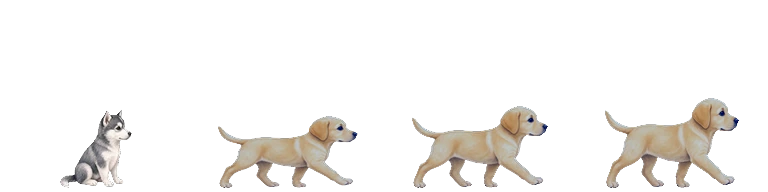
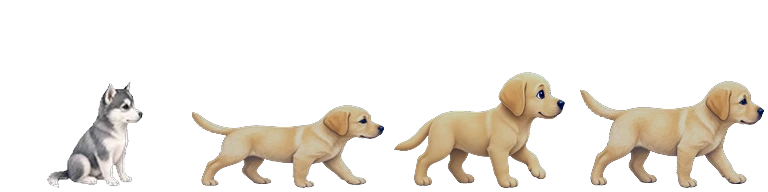
feat: 8-frame natural quadruped walk cycle
Replace 6-frame walks with 8-frame diagonal gait sheets (contact→down→pass→up ×2).
Set walkFrames=8, FRAME_FPS ~10–12, keep sitdownFrames=4 and pendingDir flip.

Changed region(s): [[0.5, 0.375, 1.0, 1.0], [0.25, 0.5312, 0.5, 1.0], [0.0625, 0.4375, 0.1875, 0.9688]]

diff --git a/js/content.js b/js/content.js
@@ -179,13 +179,13 @@ function defaultPackUnlocks() {
 }
 
 const BREEDS = {
-  lab: { id: 'lab', name: 'Лабрадор', desc: 'Сбалансированный старт', src: 'assets/dog-click.webp', walkSrc: 'assets/dog-lab-walk.webp', sitSrc: 'assets/dog-lab-sit.webp', sitdownSrc: 'assets/dog-lab-sitdown.webp', standupSrc: 'assets/dog-lab-standup.webp', sitdownFrames: 4, walkFrames: 6, frameW: 192, frameH: 192, unlockCost: 0, bonuses: { clickMult: 1, idleMult: 1, comboWindowBonus: 0 }, startUnlocked: true },
-  corgi: { id: 'corgi', name: 'Корги', desc: '+5% к почесушкам', src: 'assets/dog-corgi.webp', walkSrc: 'assets/dog-corgi-walk.webp', sitSrc: 'assets/dog-corgi-sit.webp', sitdownSrc: 'assets/dog-corgi-sitdown.webp', standupSrc: 'assets/dog-corgi-standup.webp', sitdownFrames: 4, walkFrames: 6, frameW: 192, frameH: 192, unlockCost: 35000, reqLifetime: 1e5, bonuses: { clickMult: 1.05, idleMult: 1, comboWindowBonus: 0 }, startUnlocked: false },
-  husky: { id: 'husky', name: 'Хаски', desc: '+5% к автодоходу', src: 'assets/dog-husky.webp', walkSrc: 'assets/dog-husky-walk.webp', sitSrc: 'assets/dog-husky-sit.webp', sitdownSrc: 'assets/dog-husky-sitdown.webp', standupSrc: 'assets/dog-husky-standup.webp', sitdownFrames: 4, walkFrames: 6, frameW: 192, frameH: 192, unlockCost: 140000, reqLifetime: 5e5, bonuses: { clickMult: 1, idleMult: 1.05, comboWindowBonus: 0 }, startUnlocked: false },
-  dachshund: { id: 'dachshund', name: 'Такса', desc: '+200 мс к окну комбо', src: 'assets/dog-dachshund.webp', walkSrc: 'assets/dog-dachshund-walk.webp', sitSrc: 'assets/dog-dachshund-sit.webp', sitdownSrc: 'assets/dog-dachshund-sitdown.webp', standupSrc: 'assets/dog-dachshund-standup.webp', sitdownFrames: 4, walkFrames: 6, frameW: 192, frameH: 192, unlockCost: 450000, reqLifetime: 2.5e6, reqMedals: 1, bonuses: { clickMult: 1, idleMult: 1, comboWindowBonus: 200 }, startUnlocked: false },
-  shiba: { id: 'shiba', name: 'Сиба', desc: '+4% к почесушкам и +2% к автодоходу', src: 'assets/dog-shiba.webp', walkSrc: 'assets/dog-shiba-walk.webp', sitSrc: 'assets/dog-shiba-sit.webp', sitdownSrc: 'assets/dog-shiba-sitdown.webp', standupSrc: 'assets/dog-shiba-standup.webp', sitdownFrames: 4, walkFrames: 6, frameW: 192, frameH: 192, unlockCost: 1.2e6, reqLifetime: 6e6, reqMedals: 2, bonuses: { clickMult: 1.04, idleMult: 1.02, comboWindowBonus: 0 }, startUnlocked: false },
-  poodle: { id: 'poodle', name: 'Пудель', desc: '+8% к автодоходу', src: 'assets/dog-poodle.webp', walkSrc: 'assets/dog-poodle-walk.webp', sitSrc: 'assets/dog-poodle-sit.webp', sitdownSrc: 'assets/dog-poodle-sitdown.webp', standupSrc: 'assets/dog-poodle-standup.webp', sitdownFrames: 4, walkFrames: 6, frameW: 192, frameH: 192, unlockCost: 2.8e6, reqLifetime: 2.5e7, reqMedals: 3, bonuses: { clickMult: 1, idleMult: 1.08, comboWindowBonus: 0 }, startUnlocked: false },
-  beagle: { id: 'beagle', name: 'Бигль', desc: '+6% к почесушкам · +80 мс комбо', src: 'assets/dog-beagle.webp', walkSrc: 'assets/dog-beagle-walk.webp', sitSrc: 'assets/dog-beagle-sit.webp', sitdownSrc: 'assets/dog-beagle-sitdown.webp', standupSrc: 'assets/dog-beagle-standup.webp', sitdownFrames: 4, walkFrames: 6, frameW: 192, frameH: 192, unlockCost: 7e6, reqLifetime: 8e7, reqMedals: 5, bonuses: { clickMult: 1.06, idleMult: 1, comboWindowBonus: 80 }, startUnlocked: false },
+  lab: { id: 'lab', name: 'Лабрадор', desc: 'Сбалансированный старт', src: 'assets/dog-click.webp', walkSrc: 'assets/dog-lab-walk.webp', sitSrc: 'assets/dog-lab-sit.webp', sitdownSrc: 'assets/dog-lab-sitdown.webp', standupSrc: 'assets/dog-lab-standup.webp', sitdownFrames: 4, walkFrames: 8, frameW: 192, frameH: 192, unlockCost: 0, bonuses: { clickMult: 1, idleMult: 1, comboWindowBonus: 0 }, startUnlocked: true },
+  corgi: { id: 'corgi', name: 'Корги', desc: '+5% к почесушкам', src: 'assets/dog-corgi.webp', walkSrc: 'assets/dog-corgi-walk.webp', sitSrc: 'assets/dog-corgi-sit.webp', sitdownSrc: 'assets/dog-corgi-sitdown.webp', standupSrc: 'assets/dog-corgi-standup.webp', sitdownFrames: 4, walkFrames: 8, frameW: 192, frameH: 192, unlockCost: 35000, reqLifetime: 1e5, bonuses: { clickMult: 1.05, idleMult: 1, comboWindowBonus: 0 }, startUnlocked: false },
+  husky: { id: 'husky', name: 'Хаски', desc: '+5% к автодоходу', src: 'assets/dog-husky.webp', walkSrc: 'assets/dog-husky-walk.webp', sitSrc: 'assets/dog-husky-sit.webp', sitdownSrc: 'assets/dog-husky-sitdown.webp', standupSrc: 'assets/dog-husky-standup.webp', sitdownFrames: 4, walkFrames: 8, frameW: 192, frameH: 192, unlockCost: 140000, reqLifetime: 5e5, bonuses: { clickMult: 1, idleMult: 1.05, comboWindowBonus: 0 }, startUnlocked: false },
+  dachshund: { id: 'dachshund', name: 'Такса', desc: '+200 мс к окну комбо', src: 'assets/dog-dachshund.webp', walkSrc: 'assets/dog-dachshund-walk.webp', sitSrc: 'assets/dog-dachshund-sit.webp', sitdownSrc: 'assets/dog-dachshund-sitdown.webp', standupSrc: 'assets/dog-dachshund-standup.webp', sitdownFrames: 4, walkFrames: 8, frameW: 192, frameH: 192, unlockCost: 450000, reqLifetime: 2.5e6, reqMedals: 1, bonuses: { clickMult: 1, idleMult: 1, comboWindowBonus: 200 }, startUnlocked: false },
+  shiba: { id: 'shiba', name: 'Сиба', desc: '+4% к почесушкам и +2% к автодоходу', src: 'assets/dog-shiba.webp', walkSrc: 'assets/dog-shiba-walk.webp', sitSrc: 'assets/dog-shiba-sit.webp', sitdownSrc: 'assets/dog-shiba-sitdown.webp', standupSrc: 'assets/dog-shiba-standup.webp', sitdownFrames: 4, walkFrames: 8, frameW: 192, frameH: 192, unlockCost: 1.2e6, reqLifetime: 6e6, reqMedals: 2, bonuses: { clickMult: 1.04, idleMult: 1.02, comboWindowBonus: 0 }, startUnlocked: false },
+  poodle: { id: 'poodle', name: 'Пудель', desc: '+8% к автодоходу', src: 'assets/dog-poodle.webp', walkSrc: 'assets/dog-poodle-walk.webp', sitSrc: 'assets/dog-poodle-sit.webp', sitdownSrc: 'assets/dog-poodle-sitdown.webp', standupSrc: 'assets/dog-poodle-standup.webp', sitdownFrames: 4, walkFrames: 8, frameW: 192, frameH: 192, unlockCost: 2.8e6, reqLifetime: 2.5e7, reqMedals: 3, bonuses: { clickMult: 1, idleMult: 1.08, comboWindowBonus: 0 }, startUnlocked: false },
+  beagle: { id: 'beagle', name: 'Бигль', desc: '+6% к почесушкам · +80 мс комбо', src: 'assets/dog-beagle.webp', walkSrc: 'assets/dog-beagle-walk.webp', sitSrc: 'assets/dog-beagle-sit.webp', sitdownSrc: 'assets/dog-beagle-sitdown.webp', standupSrc: 'assets/dog-beagle-standup.webp', sitdownFrames: 4, walkFrames: 8, frameW: 192, frameH: 192, unlockCost: 7e6, reqLifetime: 8e7, reqMedals: 5, bonuses: { clickMult: 1.06, idleMult: 1, comboWindowBonus: 80 }, startUnlocked: false },
 };
 const BREED_COUNT = Object.keys(BREEDS).length;
 

diff --git a/js/game.js b/js/game.js
@@ -949,7 +949,7 @@ function startGame() {
     const ACTOR_W = 96;
     const KENNEL_RESERVE = 102;
     const WALK_SPEED = 50;
-    const FRAME_FPS = Math.max(5, Math.min(9, WALK_SPEED / 8));
+    const FRAME_FPS = Math.max(10, Math.min(12, WALK_SPEED / 4.5));
     const TRANS_FPS = 11;
     const APPROACH_SNAP = 4;
     let mode = 'walk';
@@ -986,7 +986,7 @@ function startGame() {
 
     function walkFrameCount() {
       const n = Number(actor.dataset.walkFrames);
-      return n > 0 ? n : 6;
+      return n > 0 ? n : 8;
     }
 
     function sitdownFrameCount() {
@@ -1291,7 +1291,7 @@ function startGame() {
       actor.dataset.standupSrc = standupSrc;
       actor.dataset.frameW = String(breed.frameW || 192);
       actor.dataset.frameH = String(breed.frameH || 192);
-      actor.dataset.walkFrames = String(breed.walkFrames || 6);
+      actor.dataset.walkFrames = String(breed.walkFrames || 8);
       actor.dataset.sitdownFrames = String(breed.sitdownFrames || 4);
     }
     if (sprite) {
@@ -1302,7 +1302,7 @@ function startGame() {
         sprite.style.backgroundPosition = '0 0';
       } else if (walkSrc) {
         sprite.style.backgroundImage = 'url("' + walkSrc + '")';
-        const frames = Number((actor && actor.dataset.walkFrames) || 6) || 6;
+        const frames = Number((actor && actor.dataset.walkFrames) || 8) || 8;
         const w = sprite.clientWidth || 96;
         sprite.style.backgroundSize = (frames * w) + 'px 100%';
         sprite.style.backgroundPosition = '0 0';
